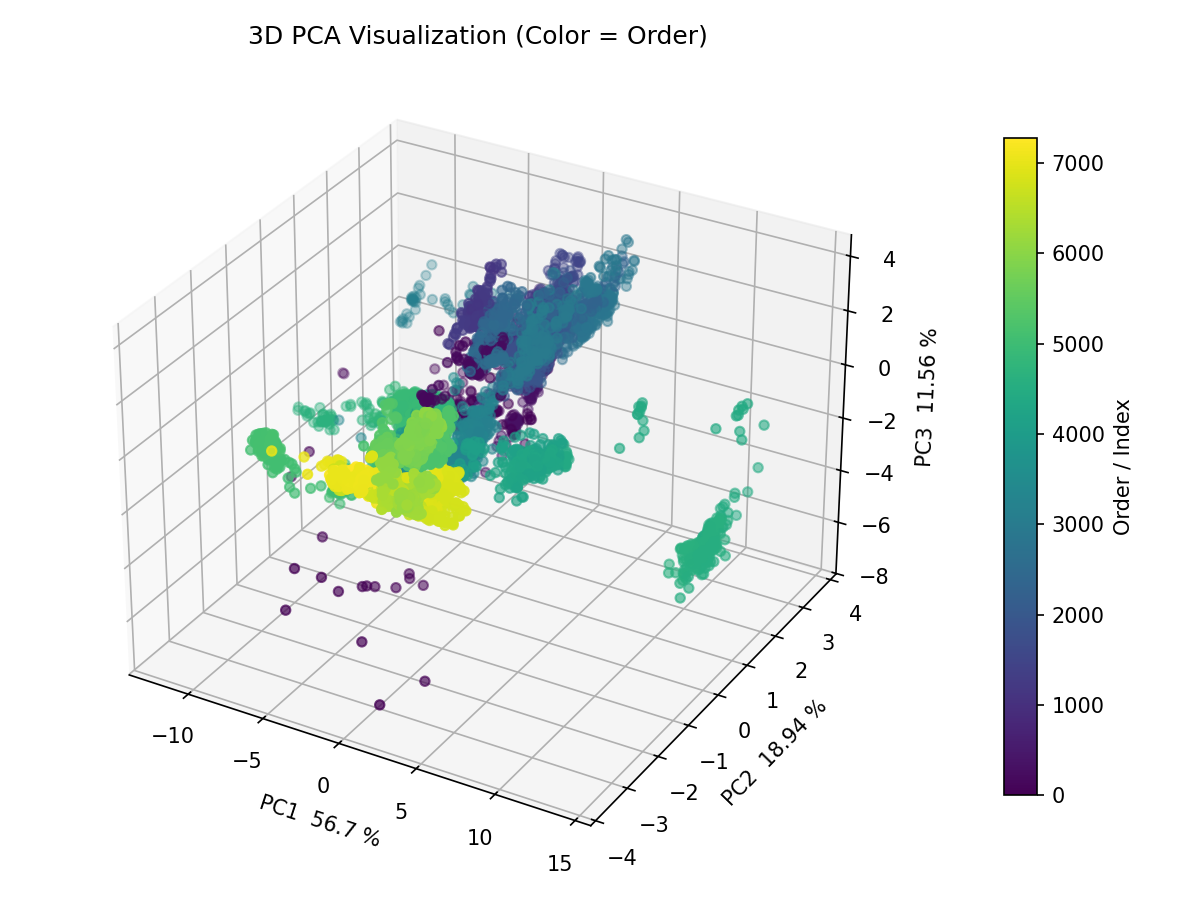
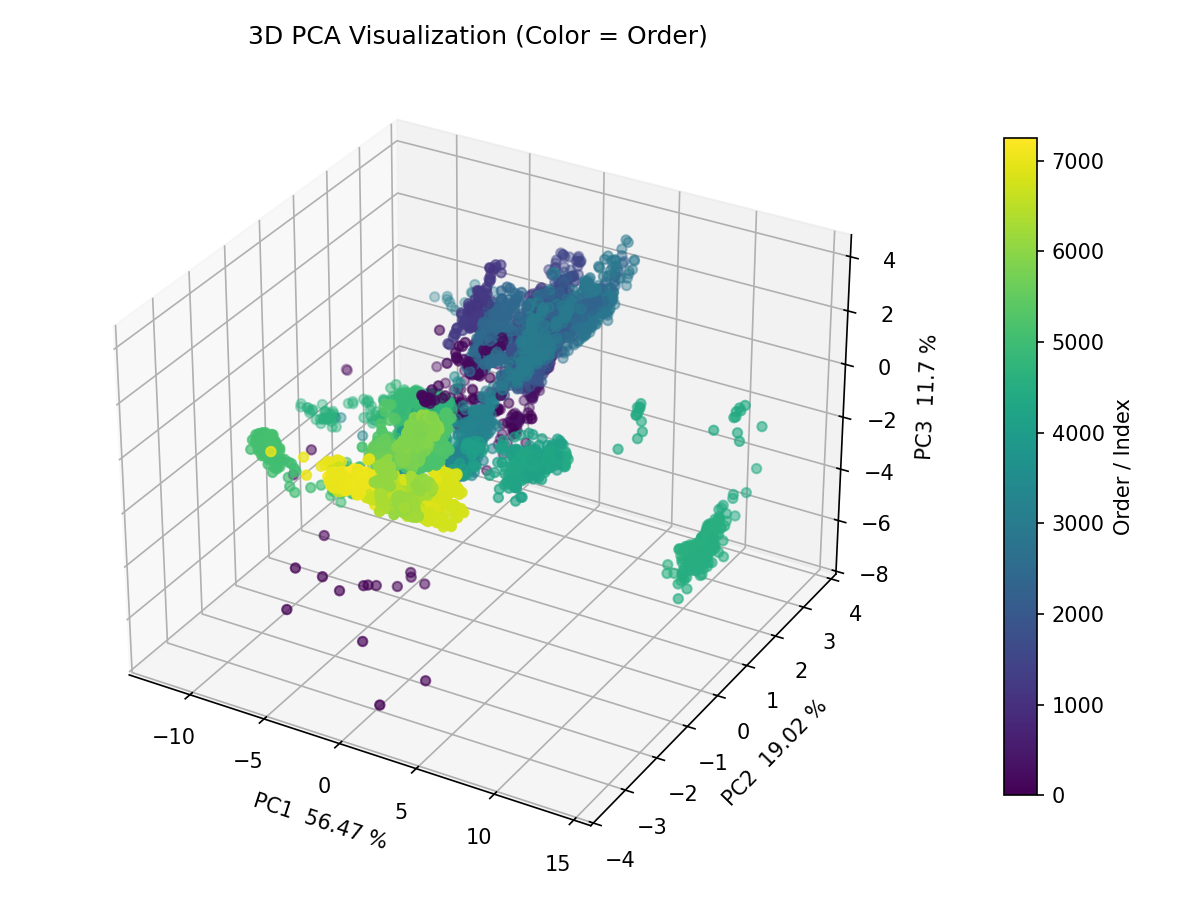
module update

diff --git a/main_code.py b/main_code.py
@@ -5,27 +5,28 @@ from module.plot_figure import PCA_plot , UMPA_plot , tSNE_plot
 from sklearn.datasets import load_iris
 import pandas as pd
 
+
 def simulation_pca(x,y=None):
     # x, y = load_iris(return_X_y=True)
     normalize_data,mean_data,std_data= normalize.normalize_gaussian(data=x)
     pca_model,pca_vector,pca_variance,pca_variance_ratio,latent_data = (
         PCA_EJ.pca_train(data=normalize_data,n_components=3,))
-    PCA_plot.pca_plot_3D(
+    PCA_plot.pca_plot_2D(
         data=normalize_data,pca_vector=pca_vector,pca_variance_ratio=pca_variance_ratio,plot_samping=-1,labels=y)
-    PCA_plot.pca_plot_3D_color(
+    PCA_plot.pca_plot_2D_color(
         data=normalize_data,pca_vector=pca_vector,pca_variance_ratio=pca_variance_ratio,plot_samping=-1)
 
 def simulation_umap(x,y=None):
     # x, y = load_iris(return_X_y=True)
     normalize_data, mean_data, std_data = normalize.normalize_gaussian(data=x)
-    umap_data=UMAP_EJ.umap_mapping(data=normalize_data,n_components=3,n_neighbors=15,random_state=42,)
+    umap_data=UMAP_EJ.umap_train(data=normalize_data,n_components=3,n_neighbors=15,random_state=42,)
     UMPA_plot.umap_plot_3D(data=umap_data,labels=y,plot_samping=-1,)
     UMPA_plot.umap_plot_3D_color(data=umap_data, plot_samping=-1, )
 
 def simulation_tsne(x,y=None):
     # x, y = load_iris(return_X_y=True)
     normalize_data, mean_data, std_data = normalize.normalize_gaussian(data=x)
-    tSNE_EJ.tsne_mapping(data=normalize_data,n_components=3,perplexity=30,random_state=42,)
+    tSNE_EJ.tsne_train(data=normalize_data,n_components=3,perplexity=30,random_state=42,)
     tSNE_plot.tsne_plot_3D(data=normalize_data,labels=y,plot_samping=-1,)
     tSNE_plot.tsne_plot_3D_color(data=normalize_data,plot_samping=-1,)
 
@@ -39,7 +40,7 @@ def main():
     # interval_data=samping_method.interval_sampling(data=data,interval_count=5,start_index=1)
 
     interval_data1 = samping_method.time_sampling(
-        data, interval_count=3600, start_time='2023-01-01', end_time='2023-05-11 ')
+        data, interval_count=3600, start_time='2023-01-01', end_time='2023-05-10 ')
     interval_data_np1=interval_data1.iloc[:, 1:].to_numpy(dtype=float)
 
     interval_data2 = samping_method.time_sampling(
@@ -50,14 +51,14 @@ def main():
         data, interval_count=3600, start_time='2023-08-13', end_time='2023-12-01 ')
     interval_data_np3=interval_data3.iloc[:, 1:].to_numpy(dtype=float)
 
-    # normalize_data3, mean_data3, std_data3 = normalize.normalize_gaussian(data=interval_data_np3)
-
-    # interval_data_np=interval_data_np2
+    # interval_data_np=interval_data_np1
     interval_data_np=np.vstack((interval_data_np1, interval_data_np2, interval_data_np3))
 
-    simulation_pca(x=interval_data_np)
-    simulation_tsne(x=interval_data_np)
-    simulation_umap(x=interval_data_np)
+    normalize_data, mean_data, std_data = normalize.normalize_gaussian(data=interval_data_np)
+
+    simulation_pca(x=normalize_data)
+    simulation_tsne(x=normalize_data)
+    simulation_umap(x=normalize_data)
     print('end')
     # except Exception as e:
     #     error_callback.print_project_trace(e)

diff --git a/module/dim_reduce/tSNE.py b/module/dim_reduce/tSNE.py
@@ -3,7 +3,7 @@ from sklearn.manifold import TSNE
 from sklearn.datasets import load_iris
 from module.Utilities import  normalize
 
-def  tsne_mapping(data,n_components=2,perplexity=30,learning_rate='auto',max_iter=1000,
+def  tsne_train(data,n_components=2,perplexity=30,learning_rate='auto',max_iter=1000,
         init='pca',metric='euclidean',random_state=42,verbose=1,):
     tsne = TSNE(
         n_components=n_components,
@@ -22,7 +22,7 @@ def  tsne_mapping(data,n_components=2,perplexity=30,learning_rate='auto',max_ite
 def tsne_test():
     x, y = load_iris(return_X_y=True)
     normalize_data, mean_data, std_data =normalize.normalize_gaussian(x)
-    data_tsne = tsne_mapping(normalize_data)
+    data_tsne = tsne_train(normalize_data)
 if __name__=='__main__':
     tsne_test()
 

diff --git a/module/plot_figure/PCA_plot.py b/module/plot_figure/PCA_plot.py
@@ -148,6 +148,27 @@ def pca_plot_3D_color(data,pca_vector,pca_variance_ratio,plot_samping=-1,figure_
     plt.show()
     print('finished 3D plotting')
 
+
+def pca_plot_2D_variable_vector(pca_vector,pca_variance_ratio,ax=None, overlab=True):
+    if overlab:
+        if ax is None:
+            raise ValueError("overlab=True need figure information ")
+        target_ax = ax
+    else:
+        plt.figure(figsize=(6, 4))
+        target_ax = plt.gca()
+
+
+
+    x_line = np.linspace(-1, 1, 100)
+    target_ax.plot(x_line, x_line, linestyle='--', label='Extra Plot')
+
+    if not overlab:
+        target_ax.legend()
+        target_ax.grid(True)
+        plt.show()
+
+
 def plot_test():
     data = np.array([[1, 2, 3],
                   [4, 5, 6],

diff --git a/module/dim_reduce/UMAP.py b/module/dim_reduce/UMAP.py
@@ -3,7 +3,7 @@ from sklearn.datasets import load_iris
 from module.Utilities import  normalize
 
 
-def  umap_mapping(data,n_neighbors=15,min_dist=0.1,n_components=2,metric="euclidean",random_state=42):
+def  umap_train(data,n_neighbors=15,min_dist=0.1,n_components=2,metric="euclidean",random_state=42):
     reducer = umap.UMAP(
         n_neighbors=n_neighbors,
         min_dist=min_dist,
@@ -16,7 +16,7 @@ def  umap_mapping(data,n_neighbors=15,min_dist=0.1,n_components=2,metric="euclid
 def umap_test():
     x, y = load_iris(return_X_y=True)
     normalize_data, mean_data, std_data =normalize.normalize_gaussian(x)
-    data_umap=umap_mapping(normalize_data)
+    data_umap=umap_train(normalize_data)
 
 
 

diff --git a/module/Utilities/normalize.py b/module/Utilities/normalize.py
@@ -1,6 +1,6 @@
 import numpy as np
 def normalize_gaussian(data):
-    # default input data  PD list numpy   (sample * variables)
+    # default input data  PD or list or numpy   (sample * variables)
     data_np = np.array(data)
     mean_data = np.mean(data_np, axis=0)
     std_data = np.std(data_np, axis=0)
